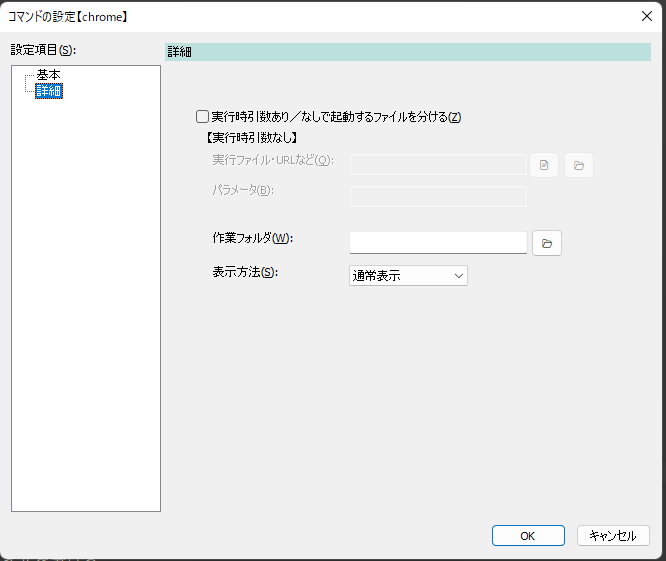
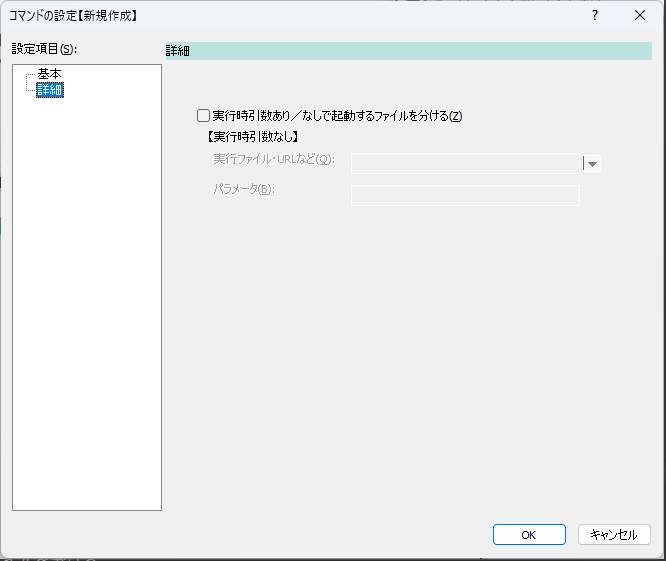
通常コマンドの作業ディレクトリと表示方法の設定を、詳細設定画面から基本設定画面に移動

diff --git a/src/soyokaze/commands/shellexecute/ShellExecEditDetailPage.cpp b/src/soyokaze/commands/shellexecute/ShellExecEditDetailPage.cpp
@@ -32,19 +32,15 @@ void ShellExecEditDetailPage::DoDataExchange(CDataExchange* pDX)
 	DDX_Check(pDX, IDC_CHECK_USE0, mParam.mIsUse0);
 	DDX_Text(pDX, IDC_EDIT_PATH0, mParam.mNoParamAttr.mPath);
 	DDX_Text(pDX, IDC_EDIT_PARAM0, mParam.mNoParamAttr.mParam);
-	// 以下のパラメータは通常と引数なし版で兼用
-	DDX_CBIndex(pDX, IDC_COMBO_SHOWTYPE, mParam.mNormalAttr.mShowType);
-	DDX_Text(pDX, IDC_EDIT_DIR, mParam.mNormalAttr.mDir);
+	DDX_Control(pDX, IDC_BUTTON_MENU, mPathMenuBtn);
 }
 
 BEGIN_MESSAGE_MAP(ShellExecEditDetailPage, SettingPage)
 	ON_EN_CHANGE(IDC_EDIT_PATH0, OnEditPath0Changed)
-	ON_COMMAND(IDC_BUTTON_BROWSEFILE2, OnButtonBrowseFile2Clicked)
-	ON_COMMAND(IDC_BUTTON_BROWSEDIR2, OnButtonBrowseDir2Clicked)
-	ON_COMMAND(IDC_BUTTON_BROWSEDIR3, OnButtonBrowseDir3Clicked)
 	ON_COMMAND(IDC_CHECK_USE0, OnUpdateStatus)
 	ON_COMMAND(IDC_BUTTON_RESOLVESHORTCUT2, OnButtonResolveShortcut0)
 	ON_WM_CTLCOLOR()
+	ON_BN_CLICKED(IDC_BUTTON_MENU, OnPathMenuBtnClicked)
 END_MESSAGE_MAP()
 
 
@@ -52,10 +48,11 @@ BOOL ShellExecEditDetailPage::OnInitDialog()
 {
 	__super::OnInitDialog();
 
-	// File&Folder Select Button
-	GetDlgItem(IDC_BUTTON_BROWSEFILE2)->SetWindowTextW(L"\U0001F4C4");
-	GetDlgItem(IDC_BUTTON_BROWSEDIR2)->SetWindowTextW(L"\U0001F4C2");
-	GetDlgItem(IDC_BUTTON_BROWSEDIR3)->SetWindowTextW(L"\U0001F4C2");
+	mMenuForPathBtn.CreatePopupMenu();
+	mMenuForPathBtn.InsertMenu((UINT)-1, 0, 1, _T("ファイル選択"));
+	mMenuForPathBtn.InsertMenu((UINT)-1, 0, 2, _T("フォルダ選択"));
+	mPathMenuBtn.m_hMenu = (HMENU)mMenuForPathBtn;
+
 
 	UpdateStatus();
 	UpdateData(FALSE);
@@ -69,8 +66,7 @@ bool ShellExecEditDetailPage::UpdateStatus()
 	GetDlgItem(IDC_STATIC_PARAM00)->EnableWindow(mParam.mIsUse0);
 	GetDlgItem(IDC_EDIT_PATH0)->EnableWindow(mParam.mIsUse0);
 	GetDlgItem(IDC_EDIT_PARAM0)->EnableWindow(mParam.mIsUse0);
-	GetDlgItem(IDC_BUTTON_BROWSEFILE2)->EnableWindow(mParam.mIsUse0);
-	GetDlgItem(IDC_BUTTON_BROWSEDIR2)->EnableWindow(mParam.mIsUse0);
+	GetDlgItem(IDC_BUTTON_MENU)->EnableWindow(mParam.mIsUse0);
 
 	BOOL isShortcut0 = CString(_T(".lnk")).CompareNoCase(PathFindExtension(mParam.mNoParamAttr.mPath)) == 0;
 	GetDlgItem(IDC_BUTTON_RESOLVESHORTCUT2)->ShowWindow(isShortcut0? SW_SHOW : SW_HIDE);
@@ -117,20 +113,6 @@ void ShellExecEditDetailPage::OnButtonBrowseDir2Clicked()
 	}
 
 	mParam.mNoParamAttr.mPath = dlg.GetPathName();
-	UpdateStatus();
-	UpdateData(FALSE);
-}
-
-void ShellExecEditDetailPage::OnButtonBrowseDir3Clicked()
-{
-	UpdateData();
-	CFolderDialog dlg(_T(""), mParam.mNormalAttr.mDir, this);
-
-	if (dlg.DoModal() != IDOK) {
-		return;
-	}
-
-	mParam.mNormalAttr.mDir = dlg.GetPathName();
 	UpdateStatus();
 	UpdateData(FALSE);
 }
@@ -197,14 +179,10 @@ void ShellExecEditDetailPage::OnOK()
 
 	// Note : このページで設定するパラメータだけ書き戻す
 	auto param = (CommandParam*)GetParam();
+
 	param->mNoParamAttr.mPath = mParam.mNoParamAttr.mPath;
 	param->mNoParamAttr.mParam = mParam.mNoParamAttr.mParam;
 	param->mIsUse0 = mParam.mIsUse0;
-	// 以下、兼用パラメータ
-	param->mNormalAttr.mShowType = mParam.mNormalAttr.mShowType;
-	param->mNoParamAttr.mShowType = mParam.mNormalAttr.mShowType;
-	param->mNormalAttr.mDir = mParam.mNormalAttr.mDir;
-	param->mNoParamAttr.mDir = mParam.mNormalAttr.mDir;
 
 	__super::OnOK();
 }
@@ -229,6 +207,18 @@ void ShellExecEditDetailPage::ResolveShortcut(CString& path)
 void ShellExecEditDetailPage::OnButtonResolveShortcut0()
 {
 	ResolveShortcut(mParam.mNoParamAttr.mPath);
+}
+
+void ShellExecEditDetailPage::OnPathMenuBtnClicked()
+{
+	switch (mPathMenuBtn.m_nMenuResult) {
+		case 1:
+			OnButtonBrowseFile2Clicked();
+			break;
+		case 2:
+			OnButtonBrowseDir2Clicked();
+			break;
+	}
 }
 
 

diff --git a/src/soyokaze/commands/shellexecute/CommandEditDialog.cpp b/src/soyokaze/commands/shellexecute/CommandEditDialog.cpp
@@ -57,6 +57,9 @@ void CommandEditDialog::DoDataExchange(CDataExchange* pDX)
 	DDX_Check(pDX, IDC_CHECK_SHOWARGINPUT, mParam.mIsShowArgDialog);
 	DDX_Check(pDX, IDC_CHECK_USEDESCRIPTIONFORMATCHING, mParam.mIsUseDescriptionForMatching);
 	DDX_Control(pDX, IDC_BUTTON_MENU, mPathMenuBtn);
+	// 以下のパラメータは通常と引数なし版で兼用
+	DDX_CBIndex(pDX, IDC_COMBO_SHOWTYPE, mParam.mNormalAttr.mShowType);
+	DDX_Text(pDX, IDC_EDIT_DIR, mParam.mNormalAttr.mDir);
 }
 
 #pragma warning( push )
@@ -73,6 +76,7 @@ BEGIN_MESSAGE_MAP(CommandEditDialog, SettingPage)
 	ON_NOTIFY(NM_CLICK, IDC_SYSLINK_MACRO, OnNotifyLinkOpen)
 	ON_NOTIFY(NM_RETURN, IDC_SYSLINK_MACRO, OnNotifyLinkOpen)
 	ON_BN_CLICKED(IDC_BUTTON_MENU, OnPathMenuBtnClicked)
+	ON_COMMAND(IDC_BUTTON_BROWSEDIR3, OnButtonBrowseDir3Clicked)
 END_MESSAGE_MAP()
 
 #pragma warning( pop )
@@ -80,6 +84,8 @@ END_MESSAGE_MAP()
 BOOL CommandEditDialog::OnInitDialog()
 {
 	__super::OnInitDialog();
+
+	GetDlgItem(IDC_BUTTON_BROWSEDIR3)->SetWindowTextW(L"\U0001F4C2");
 
 	mMenuForPathBtn.CreatePopupMenu();
 	mMenuForPathBtn.InsertMenu((UINT)-1, 0, 1, _T("ファイル選択"));
@@ -293,6 +299,7 @@ void CommandEditDialog::OnOK()
 		return ;
 	}
 
+	// Note : このページで設定するパラメータだけ書き戻す
 	auto param = (CommandParam*)GetParam();
 
 	param->mName = mParam.mName;
@@ -306,6 +313,12 @@ void CommandEditDialog::OnOK()
 	param->mIsUseDescriptionForMatching = mParam.mIsUseDescriptionForMatching;
 	param->mIconData = mParam.mIconData;
 	param->mHotKeyAttr = mParam.mHotKeyAttr;
+
+	// 以下、兼用パラメータ
+	param->mNormalAttr.mShowType = mParam.mNormalAttr.mShowType;
+	param->mNoParamAttr.mShowType = mParam.mNormalAttr.mShowType;
+	param->mNormalAttr.mDir = mParam.mNormalAttr.mDir;
+	param->mNoParamAttr.mDir = mParam.mNormalAttr.mDir;
 
 	// 引数展開のキーワードが含まれていない場合は、引数入力ダイアログの表示を無効化する
 	const tregex& regArg = GetRegexForArgument();
@@ -424,6 +437,20 @@ void CommandEditDialog::OnPathMenuBtnClicked()
 			OpenTarget();
 			break;
 	}
+}
+
+void CommandEditDialog::OnButtonBrowseDir3Clicked()
+{
+	UpdateData();
+	CFolderDialog dlg(_T(""), mParam.mNormalAttr.mDir, this);
+
+	if (dlg.DoModal() != IDOK) {
+		return;
+	}
+
+	mParam.mNormalAttr.mDir = dlg.GetPathName();
+	UpdateStatus();
+	UpdateData(FALSE);
 }
 
 

diff --git a/src/soyokaze/commands/shellexecute/ShellExecEditDetailPage.h b/src/soyokaze/commands/shellexecute/ShellExecEditDetailPage.h
@@ -24,6 +24,9 @@ protected:
 	// メッセージ欄
 	CString mMessage;
 
+	// 
+	CMFCMenuButton mPathMenuBtn;
+	CMenu mMenuForPathBtn;
 public:
 	CommandParam mParam;
 
@@ -39,9 +42,9 @@ protected:
 	afx_msg void OnEditPath0Changed();
 	afx_msg void OnButtonBrowseFile2Clicked();
 	afx_msg void OnButtonBrowseDir2Clicked();
-	afx_msg void OnButtonBrowseDir3Clicked();
 	afx_msg void OnUpdateStatus();
 	afx_msg HBRUSH OnCtlColor(CDC* pDC, CWnd* pWnd, UINT nCtlColor);
 	afx_msg void OnButtonResolveShortcut0();
+	afx_msg void OnPathMenuBtnClicked();
 };
 

diff --git a/src/soyokaze/commands/shellexecute/CommandEditDialog.h b/src/soyokaze/commands/shellexecute/CommandEditDialog.h
@@ -65,6 +65,7 @@ protected:
 	afx_msg LRESULT OnUserMessageIconChanged(WPARAM wp, LPARAM lp);
 	afx_msg void OnNotifyLinkOpen(NMHDR *pNMHDR, LRESULT *pResult);
 	afx_msg void OnPathMenuBtnClicked();
+	afx_msg void OnButtonBrowseDir3Clicked();
 	void OpenTarget();
 };
 

diff --git a/doc/help.md b/doc/help.md
@@ -688,10 +688,14 @@ bookが最も優先度が高いため、候補欄にはbookコマンドが先に
 ↓  
 ![](../image/sample-arg0-run.gif)
 
+- `作業フォルダ`
+  - 実行するときのカレントディレクトリを指定する
+- `表示方法`
+  - 通常表示/最大表示/最小表示 を選ぶことができる
+  - 起動するプログラムによっては指定が効かないこともある
 - `管理者権限で実行`
   - チェックすると、管理者権限でプロセスを起動する
   - `.exe`、`.bat`のときのみ選択可能
-
 - `ホットキー`
   - [コマンドを呼び出すキー](#キー割り当て)を設定できる。設定したキーを押下すると、コマンドを実行できる。  
 ![](../image/hotkeyForCommand.png)
@@ -714,13 +718,6 @@ bookが最も優先度が高いため、候補欄にはbookコマンドが先に
   - 【実行時引数なし】直下に、コマンド名のみを入力した場合に実行するファイル(やパラメータ)を指定する
   - 想定する使い方
     - パラメータがある場合→検索、ない場合→検索サイトのトップページを表示
-
-- `作業フォルダ`
-  - 実行するときのカレントディレクトリを指定する
-
-- `表示方法`
-  - 通常表示/最大表示/最小表示 を選ぶことができる
-  - 起動するプログラムによっては指定が効かないこともある
 
 ##### 実行時の動作
 
